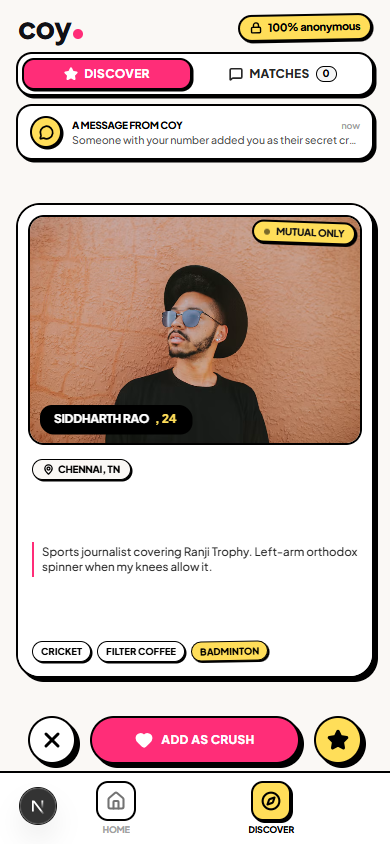
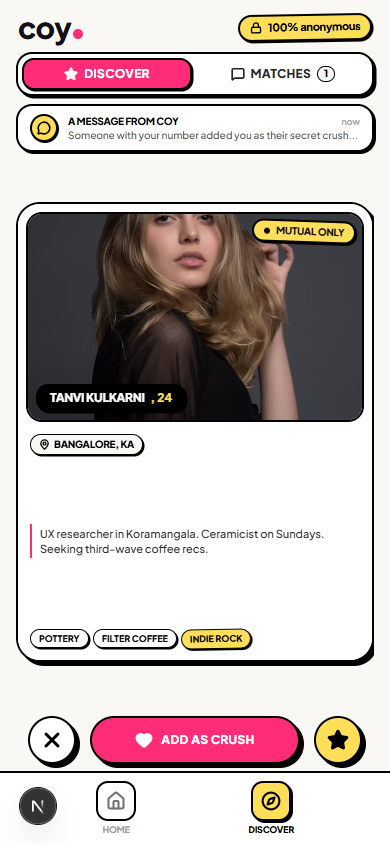
fix(ui): eliminate scrollbars and optimize card framing for clean mobile and desktop view

Changed region(s): [[0.0308, 0.1232, 0.9846, 0.8318], [0.0615, 0.6161, 0.9231, 0.6777], [0.5846, 0.0616, 0.8615, 0.0924]]

diff --git a/web/features/discover/components/ProfileCard.tsx b/web/features/discover/components/ProfileCard.tsx
@@ -25,7 +25,7 @@ export function ProfileCard({
   const [hasImageError, setHasImageError] = useState(false);
 
   return (
-    <article className="bg-white border-[2.5px] border-black rounded-3xl overflow-hidden shadow-brutal flex flex-col relative w-full h-[475px] sm:h-[490px] select-none">
+    <article className="bg-white border-[2.5px] border-black rounded-3xl overflow-hidden shadow-brutal flex flex-col relative w-full h-full max-h-[460px] select-none">
       {/* Top Status Sticker: Privacy Tag */}
       <div className="absolute top-4 right-4 z-20 bg-coy-yellow border-[2px] border-black font-black text-[10px] px-2.5 py-0.5 rounded-full uppercase tracking-tight shadow-brutal-xs rotate-2 flex items-center gap-1.5 pointer-events-none">
         <span className="w-1.5 h-1.5 rounded-full bg-black animate-pulse" />
@@ -36,8 +36,8 @@ export function ProfileCard({
       {children}
 
       {/* Photo Section with Neobrutalist Inner Frame */}
-      <div className="p-2.5 pb-0 bg-white">
-        <div className="relative h-[230px] sm:h-[245px] w-full border-[2px] border-black rounded-2xl overflow-hidden bg-amber-50">
+      <div className="p-2 pb-0 bg-white">
+        <div className="relative h-[210px] sm:h-[225px] w-full border-[2px] border-black rounded-2xl overflow-hidden bg-amber-50">
           {!hasImageError ? (
             <Image
               src={profile.photoUrl}
@@ -55,7 +55,7 @@ export function ProfileCard({
           )}
 
           {/* Bottom Name Ribbon Overlay */}
-          <div className="absolute bottom-2.5 left-2.5 z-10 pointer-events-none">
+          <div className="absolute bottom-2 left-2 z-10 pointer-events-none">
             <div className="bg-black text-white px-3 py-1 rounded-xl border-[2px] border-black shadow-brutal-xs flex items-center gap-1.5">
               <span className="text-xs font-black tracking-tight uppercase text-white">
                 {profile.name}
@@ -69,28 +69,28 @@ export function ProfileCard({
       </div>
 
       {/* Bio & Profile Details */}
-      <div className="p-3.5 flex flex-col justify-between flex-1 bg-white gap-2">
+      <div className="p-3 flex flex-col justify-between flex-1 bg-white gap-1.5 min-h-0">
         {/* Campus Location Badge */}
         <div className="flex items-center">
-          <span className="inline-flex items-center gap-1 bg-[#FAF8F5] text-black border-[1.5px] border-black px-2.5 py-0.5 rounded-full text-[10px] font-black tracking-tight shadow-brutal-xs uppercase">
+          <span className="inline-flex items-center gap-1 bg-[#FAF8F5] text-black border-[1.5px] border-black px-2 py-0.5 rounded-full text-[10px] font-black tracking-tight shadow-brutal-xs uppercase">
             <MapPin size={11} strokeWidth={2.8} />
             <span>{profile.city}</span>
           </span>
         </div>
 
         {/* Bio Description with Hot Pink Accent Bar */}
-        <p className="text-[11.5px] leading-snug font-medium text-neutral-800 border-l-[2.5px] border-[#FF2D78] pl-2 py-0.5 line-clamp-3">
+        <p className="text-[11px] leading-snug font-medium text-neutral-800 border-l-[2.5px] border-[#FF2D78] pl-2 py-0.5 line-clamp-2">
           {profile.bio}
         </p>
 
         {/* Neobrutalist Interest Chips */}
-        <div className="flex flex-wrap gap-1.5 pt-0.5">
+        <div className="flex flex-wrap gap-1 pt-0.5">
           {profile.interests.map((tag, i) => {
             const isLast = i === profile.interests.length - 1;
             return (
               <span
                 key={tag}
-                className={`inline-flex items-center gap-1 px-2 py-0.5 rounded-full text-[9.5px] font-black border-[1.5px] border-black shadow-brutal-xs uppercase ${
+                className={`inline-flex items-center gap-1 px-2 py-0.5 rounded-full text-[9px] font-black border-[1.5px] border-black shadow-brutal-xs uppercase ${
                   isLast
                     ? "bg-coy-yellow text-black -rotate-1"
                     : "bg-white text-black"

diff --git a/web/app/(tabs)/discover/page.tsx b/web/app/(tabs)/discover/page.tsx
@@ -23,14 +23,14 @@ import { MessageCircle } from "lucide-react";
 function MysteryBanner(): React.JSX.Element {
   return (
     <div
-      className="mx-4 mb-3 bg-white border-[2px] border-black rounded-2xl px-3 py-2.5 flex items-center gap-2.5"
-      style={{ boxShadow: "2.5px 2.5px 0px #000" }}
+      className="mx-4 mb-2 bg-white border-[2px] border-black rounded-2xl px-3 py-2 flex items-center gap-2.5 shrink-0"
+      style={{ boxShadow: "2px 2px 0px #000" }}
     >
       <div
-        className="w-8 h-8 rounded-full bg-coy-yellow border-[2px] border-black flex items-center justify-center shrink-0"
-        style={{ boxShadow: "1.5px 1.5px 0px #000" }}
+        className="w-7 h-7 rounded-full bg-coy-yellow border-[2px] border-black flex items-center justify-center shrink-0"
+        style={{ boxShadow: "1px 1px 0px #000" }}
       >
-        <MessageCircle size={15} strokeWidth={2.8} className="text-black" />
+        <MessageCircle size={14} strokeWidth={2.8} className="text-black" />
       </div>
       <div className="flex-1 min-w-0">
         <div className="flex items-center justify-between gap-1">
@@ -39,7 +39,7 @@ function MysteryBanner(): React.JSX.Element {
           </span>
           <span className="text-[9px] font-semibold text-neutral-400 shrink-0">now</span>
         </div>
-        <p className="text-[10.5px] leading-tight text-neutral-600 font-medium truncate">
+        <p className="text-[10px] leading-tight text-neutral-600 font-medium truncate">
           Someone with your number added you as their secret crush...
         </p>
       </div>
@@ -102,7 +102,7 @@ export default function DiscoverPage(): React.JSX.Element {
   const showBanner = !feedLoading && !feedError && !isEmpty && activeTab === "discover";
 
   return (
-    <div className="flex-1 flex flex-col h-full bg-[#FAF8F5] relative">
+    <div className="flex-1 flex flex-col h-full bg-[#FAF8F5] relative overflow-hidden">
       <DiscoverHeader
         activeTab={activeTab}
         onTabChange={setActiveTab}
@@ -112,10 +112,14 @@ export default function DiscoverPage(): React.JSX.Element {
       {/* Mystery banner */}
       {showBanner && <MysteryBanner />}
 
-      <div className="flex-1 flex flex-col px-4 pb-2 relative overflow-y-auto">
+      <div
+        className={`flex-1 flex flex-col px-4 pb-1 relative ${
+          activeTab === "discover" ? "overflow-hidden" : "overflow-y-auto"
+        }`}
+      >
         {activeTab === "discover" ? (
-          <div className="flex-1 flex flex-col justify-between items-center w-full">
-            <div className="w-full flex-1 flex items-center justify-center relative">
+          <div className="flex-1 flex flex-col justify-between items-center w-full h-full overflow-hidden">
+            <div className="w-full flex-1 flex items-center justify-center relative min-h-0">
               {feedLoading ? (
                 <SkeletonCard />
               ) : feedError ? (
@@ -135,7 +139,7 @@ export default function DiscoverPage(): React.JSX.Element {
 
             {/* Action Controls */}
             {!feedLoading && !feedError && !isEmpty && (
-              <div className="w-full shrink-0">
+              <div className="w-full shrink-0 pt-1 pb-1">
                 {swipeError && (
                   <p className="text-center text-xs font-bold text-coy-pink pb-1">
                     {swipeError}

diff --git a/web/app/(tabs)/layout.tsx b/web/app/(tabs)/layout.tsx
@@ -18,21 +18,21 @@ export default function TabsLayout({
   const pathname = usePathname();
 
   return (
-    <div className="min-h-dvh h-dvh flex flex-col items-center justify-center bg-zinc-900 sm:p-6 select-none antialiased">
+    <div className="min-h-dvh h-dvh flex flex-col items-center justify-center bg-zinc-900 sm:p-4 select-none antialiased overflow-hidden">
       {/* Phone frame on desktop; full viewport on mobile */}
       <div
-        className="w-full max-w-[390px] h-full sm:h-[844px] sm:max-h-[94dvh] bg-[#FAF8F5] sm:border-[3px] sm:border-black sm:rounded-[42px] overflow-hidden flex flex-col relative"
+        className="w-full max-w-[390px] h-full sm:h-[844px] sm:max-h-[96dvh] bg-[#FAF8F5] sm:border-[3px] sm:border-black sm:rounded-[42px] overflow-hidden flex flex-col relative"
         style={{ boxShadow: "0 0 0 0px transparent" }}
       >
-        {/* Brutal shadow frame on desktop — rendered on top via z-index, pointer-events-none */}
+        {/* Brutal shadow frame on desktop */}
         <div
           className="hidden sm:block absolute inset-0 pointer-events-none rounded-[42px]"
           style={{ boxShadow: "8px 8px 0px #000000", zIndex: 50 }}
           aria-hidden="true"
         />
 
-        {/* Main scrollable content */}
-        <main className="flex-1 flex flex-col overflow-y-auto pb-16 bg-[#FAF8F5]">
+        {/* Main content view */}
+        <main className="flex-1 flex flex-col overflow-hidden pb-16 bg-[#FAF8F5]">
           {children}
         </main>
 

diff --git a/web/app/globals.css b/web/app/globals.css
@@ -35,6 +35,19 @@ body {
   font-family: "Plus Jakarta Sans", system-ui, -apple-system, BlinkMacSystemFont,
     "Segoe UI", Roboto, sans-serif;
   height: 100%;
+  overflow: hidden;
+}
+
+/* Hide scrollbars globally across all browsers while keeping elements scrollable */
+*, *::before, *::after {
+  scrollbar-width: none !important;
+  -ms-overflow-style: none !important;
+}
+
+::-webkit-scrollbar {
+  display: none !important;
+  width: 0 !important;
+  height: 0 !important;
 }
 
 .brutal-btn {

diff --git a/web/features/discover/components/EmptyState.tsx b/web/features/discover/components/EmptyState.tsx
@@ -12,7 +12,7 @@ export function EmptyState({
 }: EmptyStateProps): React.JSX.Element {
   return (
     <div
-      className="w-full h-[475px] rounded-3xl bg-[#FAF8F5] border-[2.5px] border-black flex flex-col items-center justify-center text-center p-8"
+      className="w-full h-full max-h-[460px] rounded-3xl bg-[#FAF8F5] border-[2.5px] border-black flex flex-col items-center justify-center text-center p-8"
       style={{ boxShadow: "4px 4px 0px #000" }}
     >
       {/* Icon */}

diff --git a/web/features/discover/components/ErrorState.tsx b/web/features/discover/components/ErrorState.tsx
@@ -14,7 +14,7 @@ export function ErrorState({
 }: ErrorStateProps): React.JSX.Element {
   return (
     <div
-      className="w-full h-[475px] rounded-3xl bg-[#FAF8F5] border-[2.5px] border-black flex flex-col items-center justify-center text-center p-8"
+      className="w-full h-full max-h-[460px] rounded-3xl bg-[#FAF8F5] border-[2.5px] border-black flex flex-col items-center justify-center text-center p-8"
       style={{ boxShadow: "4px 4px 0px #000" }}
     >
       {/* Icon */}

diff --git a/web/features/discover/components/SkeletonCard.tsx b/web/features/discover/components/SkeletonCard.tsx
@@ -7,7 +7,7 @@ export function SkeletonCard(): React.JSX.Element {
     <div
       role="status"
       aria-label="Loading profiles"
-      className="relative w-full h-[475px] rounded-3xl bg-white border-[2.5px] border-black overflow-hidden flex flex-col"
+      className="relative w-full h-full max-h-[460px] rounded-3xl bg-white border-[2.5px] border-black overflow-hidden flex flex-col"
       style={{ boxShadow: "4px 4px 0px #000" }}
     >
       {/* Photo skeleton */}

diff --git a/web/features/discover/components/CardStack.tsx b/web/features/discover/components/CardStack.tsx
@@ -98,7 +98,7 @@ export const CardStack = forwardRef<CardStackRef, CardStackProps>(
     if (!current) return null;
 
     return (
-      <div className="relative w-full h-[475px] sm:h-[490px] flex items-center justify-center">
+      <div className="relative w-full h-full max-h-[460px] flex items-center justify-center">
         {/* Next card preview behind current */}
         {next && (
           <div
